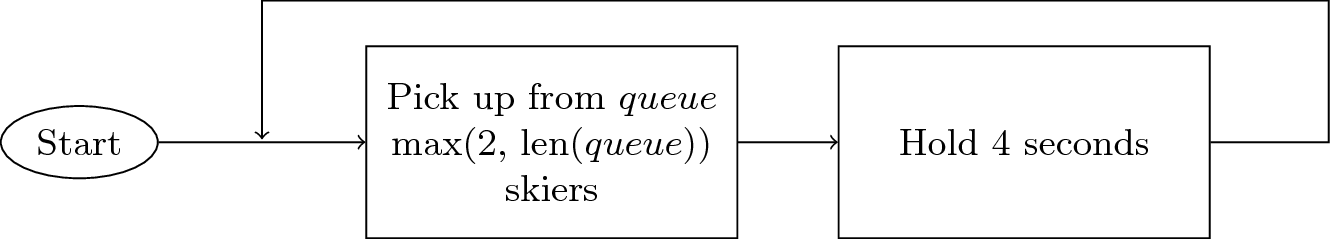
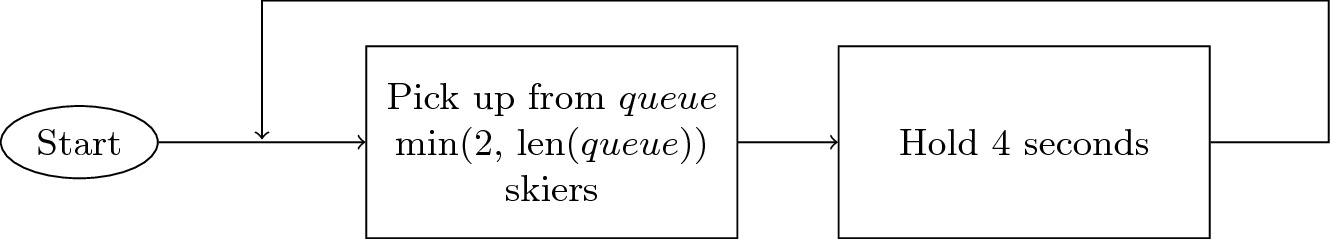
Fixed error

Changed region(s): [[0.2774, 0.5272, 0.5549, 0.6736]]

diff --git a/images/skilift_process.tex b/images/skilift_process.tex
@@ -13,7 +13,7 @@
   %% Customer Generator
   %\node (title) {Customer generator process};
   \node [terminal, ] (start) {Start};
-  \node [block, right of=start, text width=9em, node distance=4cm] (pickup) {Pick up from $queue$ $\max (2,\, \mathrm{len}(queue))$ skiers};
+  \node [block, right of=start, text width=9em, node distance=4cm] (pickup) {Pick up from $queue$ $\min (2,\, \mathrm{len}(queue))$ skiers};
   \node [block, right of=pickup, text width=9em, node distance=4cm] (wait) {Hold 4 seconds};
   % Draw edges
   \draw [->] (start) -- node[midway,inner sep=0pt] (loop) {} (pickup);
